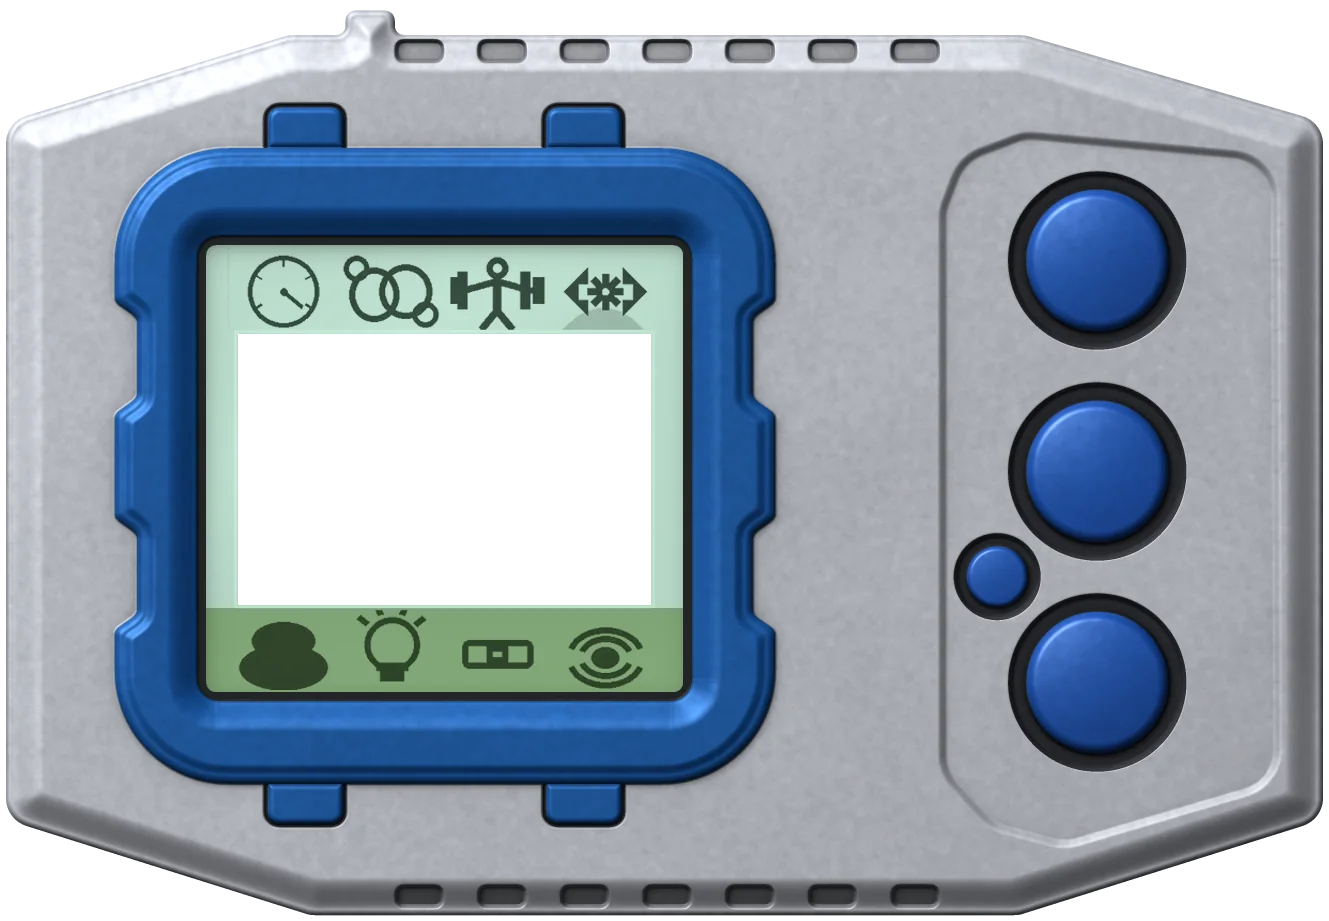
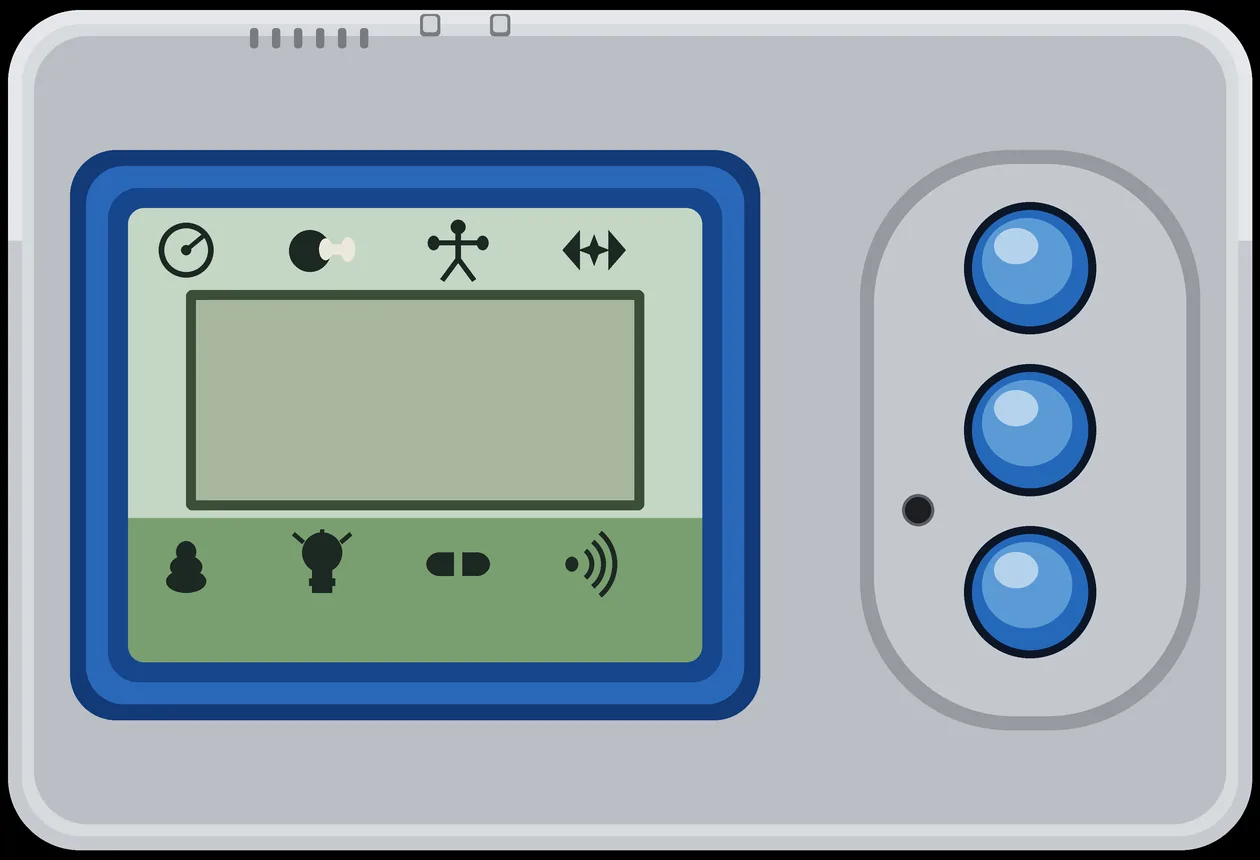
Redraw the Pendulum 1.0 shell from the 1998 package.
The silver body, blue frame, three buttons and the printed icons follow the Nature Spirits front instead of the old flat drawing.

diff --git a/js/devices/pendulum/data.js b/js/devices/pendulum/data.js
@@ -92,9 +92,40 @@
       bgBot: '#80a577'
     }
   };
-  // Versions on the round-4 shell. 2.0+ keep LAYOUT until their shells are accepted.
-  var ROUND4_VERSIONS = { '1.0': true, '1.5': true };
-  function layoutFor(key) { return ROUND4_VERSIONS[key] ? LAYOUT_10 : LAYOUT; }
+  // 1.0 silver/blue Nature Spirits, drawn from the 1998 package front
+  // (1260x860). Screen module on the left, three buttons in the right well,
+  // a pinhole reset. The icon bands are the colours painted on that shell.
+  var LAYOUT_NS = {
+    aspectW: 1260,
+    aspectH: 860,
+    lcd: { left: 15.556, top: 34.884, width: 34.762, height: 23.256 },
+    buttons: {
+      a: { cx: 81.746, cy: 31.163, w: 9.206, h: 13.488 },
+      b: { cx: 81.746, cy: 50, w: 9.206, h: 13.488 },
+      c: { cx: 81.746, cy: 68.837, w: 9.206, h: 13.488 },
+      reset: { cx: 72.857, cy: 59.302, w: 2.063, h: 3.023 }
+    },
+    icons_top: [11.905, 22.698, 33.492, 44.286].map(function (l) {
+      return { left: l, top: 24.884, width: 5.714, height: 8.372 };
+    }),
+    icons_bot: [11.905, 22.698, 33.492, 44.286].map(function (l) {
+      return { left: l, top: 61.395, width: 5.714, height: 8.372 };
+    }),
+    names_top: LAYOUT.names_top,
+    names_bot: LAYOUT.names_bot,
+    chamber: null,
+    iconArt: {
+      src: LAYOUT_10.iconArt.src,
+      bgTop: '#c4d6c4',
+      bgBot: '#7a9e70'
+    }
+  };
+  // 1.5 still sits on the round-4 shell. 2.0+ keep LAYOUT.
+  var ROUND4_VERSIONS = { '1.5': true };
+  function layoutFor(key) {
+    if (key === '1.0') return LAYOUT_NS;
+    return ROUND4_VERSIONS[key] ? LAYOUT_10 : LAYOUT;
+  }
 
   // Attribute triangle — NHOKO original-Pendulum page (Vac strong vs Virus).
   var TRIANGLE = {
@@ -655,7 +686,7 @@
     shell: 'pen-1-0',
     orient: 'landscape',
     version: '1.0',
-    layout: LAYOUT_10,
+    layout: LAYOUT_NS,
     iconsTop: LAYOUT.names_top,
     iconsBot: LAYOUT.names_bot,
     selectable: ['STATUS', 'FEED', 'TRAIN', 'CONNECT', 'FLUSH', 'LIGHT', 'MEDIC'],
@@ -678,6 +709,7 @@
     LAYOUT: LAYOUT,
     LAYOUT_PEN: LAYOUT,
     LAYOUT_10: LAYOUT_10,
+    LAYOUT_NS: LAYOUT_NS,
     layoutFor: layoutFor,
     RULES: RULES,
     TRIANGLE: TRIANGLE,

diff --git a/tests/shell-aspect.test.js b/tests/shell-aspect.test.js
@@ -77,11 +77,19 @@ for (const f of shells.filter((s) => /^pen-(\d-\d|zero)\.webp$/.test(s))) {
     ok(L.iconArt && L.iconArt.bgTop === '#badccc' && L.iconArt.bgBot === '#80a577', 'icon masks #badccc / #80a577');
     const names = L.names_top.concat(L.names_bot);
     ok(names.every((n) => L.iconArt.src[n] && fs.existsSync(path.join(ROOT, 'icons/bezel', L.iconArt.src[n] + '.png'))), 'every slot has v34 icon art in icons/bezel');
-    ok(D.layoutFor('1.0') === L && D.layoutFor('1.5') === L, '1.0 and 1.5 use the round-4 layout');
+    ok(D.layoutFor('1.5') === L, '1.5 keeps the round-4 layout');
+    const N = D.LAYOUT_NS;
+    ok(D.layoutFor('1.0') === N, '1.0 uses the redrawn Nature Spirits shell');
+    if (N) {
+      ok(N.aspectW === 1260 && N.aspectH === 860, '1.0 shell is 1260x860');
+      ok(near(N.lcd.left, 15.556) && near(N.lcd.top, 34.884) && near(N.lcd.width, 34.762) && near(N.lcd.height, 23.256), '1.0 LCD sits in the drawn glass');
+      ok(near(N.buttons.a.cx, 81.746) && near(N.buttons.b.cy, 50) && near(N.buttons.c.cy, 68.837), '1.0 buttons sit on the three drawn buttons');
+      ok(N.iconArt && N.iconArt.bgTop === '#c4d6c4' && N.iconArt.bgBot === '#7a9e70', '1.0 icon masks match the painted bands');
+    }
     ['2.0', '2.5', '3.0', '3.5', '4.0', '4.5', '5.0', '5.5', 'zero'].forEach((k) => ok(D.layoutFor(k) === D.LAYOUT, k + ' keeps the v34 layout'));
     const R = global.Devices;
     if (R && R.profileById) {
-      ok(R.profileById('pen-1-0') && R.profileById('pen-1-0').layout === L, 'registered pen-1-0 profile uses round-4 layout');
+      ok(R.profileById('pen-1-0') && R.profileById('pen-1-0').layout === D.LAYOUT_NS, 'registered pen-1-0 profile uses the redrawn shell');
       ok(R.profileById('pen-1-5') && R.profileById('pen-1-5').layout === L, 'registered pen-1-5 profile uses round-4 layout');
       ok(R.profileById('pen-2-0') && R.profileById('pen-2-0').layout === D.LAYOUT, 'registered pen-2-0 profile keeps v34 layout');
     }

diff --git a/tests/offline-clock.test.js b/tests/offline-clock.test.js
@@ -23,7 +23,7 @@ const html = fs.readFileSync(path.join(ROOT, 'index.html'), 'utf8');
 const manifest = JSON.parse(fs.readFileSync(path.join(ROOT, 'manifest.json'), 'utf8'));
 const block = sw.slice(sw.indexOf('var ASSETS = ['), sw.indexOf('];', sw.indexOf('var ASSETS = [')));
 const assets = new Set((block.match(/'([^']+)'/g) || []).map((s) => s.slice(1, -1)));
-eq((sw.match(/var CACHE = '([^']+)'/) || [])[1], 'digivice-v73', 'cache name bumped to digivice-v73');
+eq((sw.match(/var CACHE = '([^']+)'/) || [])[1], 'digivice-v74', 'cache name bumped to digivice-v74');
 const refs = [];
 html.replace(/(?:src|href)="(\.\/[^"#?]+)"/g, (m, u) => { refs.push(u); return m; });
 ok(refs.length > 40, 'index.html local refs parsed (' + refs.length + ')');

diff --git a/sw.js b/sw.js
@@ -1,4 +1,4 @@
-/* Offline cache for 數碼怪獸對打機 — v73 (KingEtemon and Titamon faces)
+/* Offline cache for 數碼怪獸對打機 — v74 (Pendulum 1.0 shell redrawn from the 1998 package)
  * - Precaches every file index.html loads plus ALL device shells (WebP,
  *   ~2.4 MB), so any device works on an offline first launch.
  * - Precache requests bypass the HTTP cache (cache: 'reload'), so a new
@@ -9,7 +9,7 @@
  * - Only same-origin, non-redirected, 200 'basic' responses are cached.
  * - Old caches are deleted only after the new one is complete.
  */
-var CACHE = 'digivice-v73';
+var CACHE = 'digivice-v74';
 var APP_SHELL = './index.html';
 var ASSETS = [
   './',

diff --git a/js/ui.js b/js/ui.js
@@ -290,10 +290,6 @@
         im.src = './icons/bezel/' + file + '.png';
         im.alt = '';
         im.draggable = false;
-        // v34's flush/medic/call PNGs carry small detached smudges under the
-        // glyph (rows 54-61 of 64); clip them off (source files untouched).
-        var clipBottom = { flush: 9.4, medic: 16, call: 17.2 }[file];
-        if (clipBottom) im.style.clipPath = 'inset(0 0 ' + clipBottom + '% 0)';
         // mask (panel colour) + glyph box exactly on the slot
         var mask = document.createElement('div');
         mask.className = 'icon-mask';
